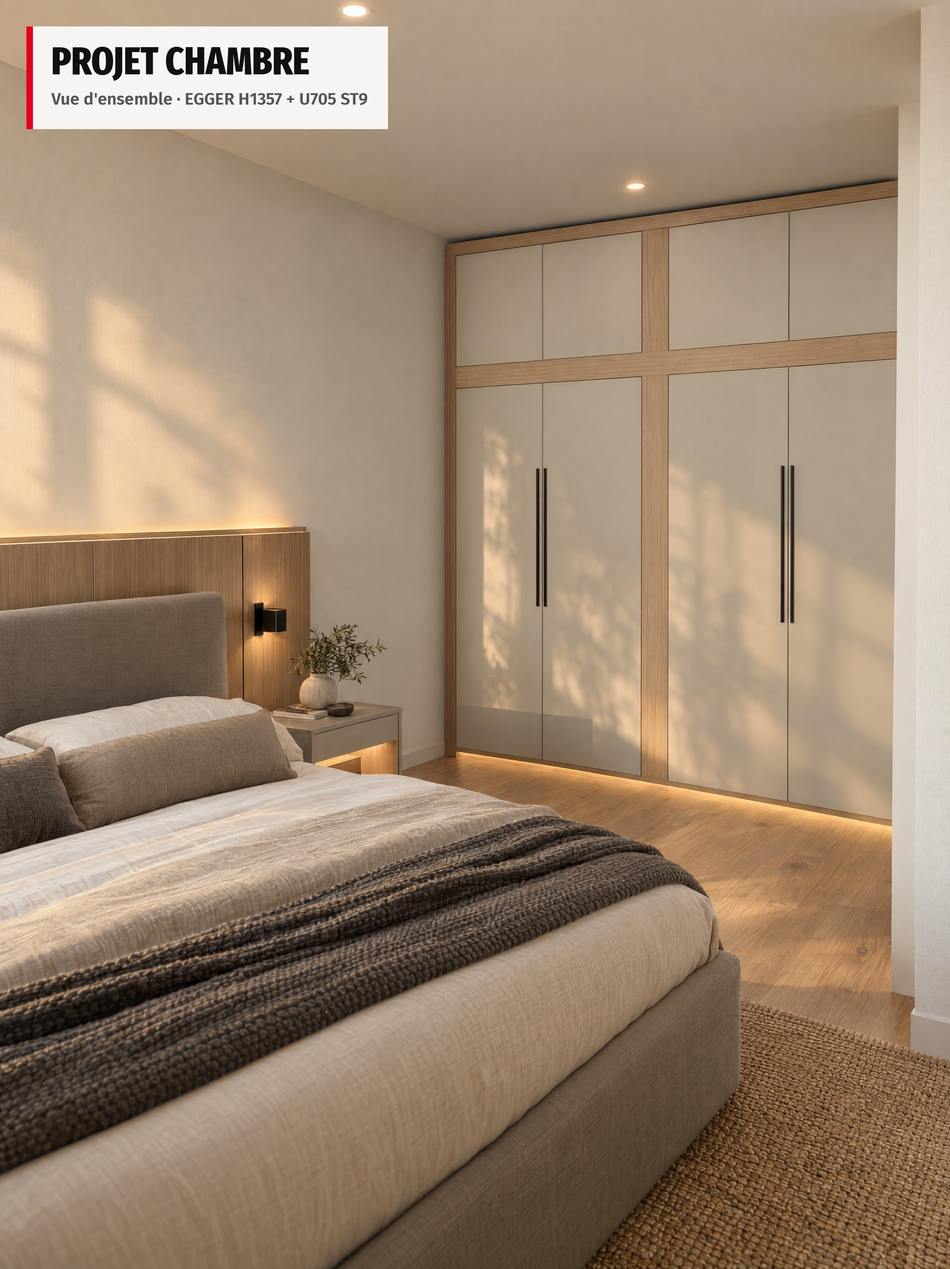
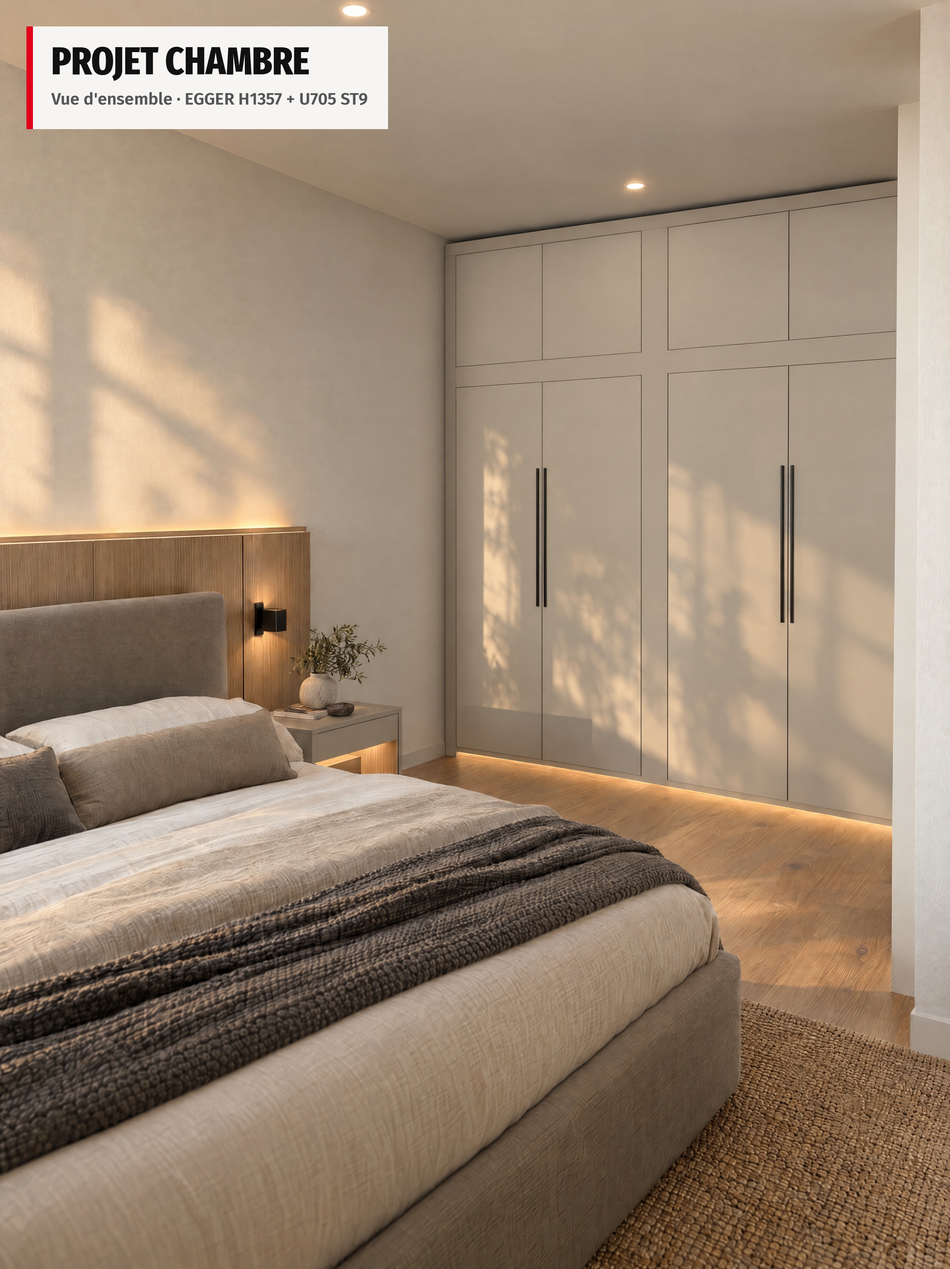
Chambre : placard 2490 et armoire 900 entièrement U705 (photos 4K + 3D)
Claude-Session: https://claude.ai/code/session_01XoeDEVkNFXq4oExWHbkpus

diff --git a/ads/meubles/chambre-H1357-U705/bedroom.html b/ads/meubles/chambre-H1357-U705/bedroom.html
@@ -81,12 +81,12 @@ for (let y = 190; y < 740; y += 70) bx(2260, y, 110, 2840, y + 8, 114, new THREE
 const WD = 620, z0 = ZA, Hb = 50, Hd = 1980, Hband = 110, Htop = 570, Hcap = 50;
 const y1 = Hb, y2 = y1 + Hd, y3 = y2 + Hband, y4 = y3 + Htop, y5 = y4 + Hcap;  // 50,2030,2140,2710,2760
 bx(0, y1, z0 + 70, WD - 30, y4, ZB - 70, M.caisson);                           // carcass
-bx(0, 0, z0, WD + T, y5, z0 + 70, M.oak, 2);                                   // side 70
-bx(0, 0, ZB - 70, WD + T, y5, ZB, M.oak, 2);                                   // side 70
-bx(0, y1, z0 + 70 + 1110, WD + T, y2, z0 + 70 + 1110 + 130, M.oak, 2); bx(0, y3, z0 + 70 + 1110, WD + T, y4, z0 + 70 + 1110 + 130, M.oak, 2); // middle 130
-bx(0, 0, z0 + 70, WD + T, y1, ZB - 70, M.oak);                                 // base
-bx(0, y2, z0 + 70, WD + T, y3, ZB - 70, M.oak, 2);                             // band 110
-bx(0, y4, z0 + 70, WD + T, y5, ZB - 70, M.oak, 2);                             // top cap
+bx(0, 0, z0, WD + T, y5, z0 + 70, M.u705, 2);                                   // side 70
+bx(0, 0, ZB - 70, WD + T, y5, ZB, M.u705, 2);                                   // side 70
+bx(0, y1, z0 + 70 + 1110, WD + T, y2, z0 + 70 + 1110 + 130, M.u705, 2); bx(0, y3, z0 + 70 + 1110, WD + T, y4, z0 + 70 + 1110 + 130, M.u705, 2); // middle 130
+bx(0, 0, z0 + 70, WD + T, y1, ZB - 70, M.u705);                                 // base
+bx(0, y2, z0 + 70, WD + T, y3, ZB - 70, M.u705, 2);                             // band 110
+bx(0, y4, z0 + 70, WD + T, y5, ZB - 70, M.u705, 2);                             // top cap
 for (const b0 of [z0 + 70, z0 + 70 + 1110 + 130]) {
   frontPX(b0, b0 + 555, y1, y2, WD, M.u705); frontPX(b0 + 555, b0 + 1110, y1, y2, WD, M.u705);
   frontPX(b0, b0 + 555, y3, y4, WD, M.u705); frontPX(b0 + 555, b0 + 1110, y3, y4, WD, M.u705);
